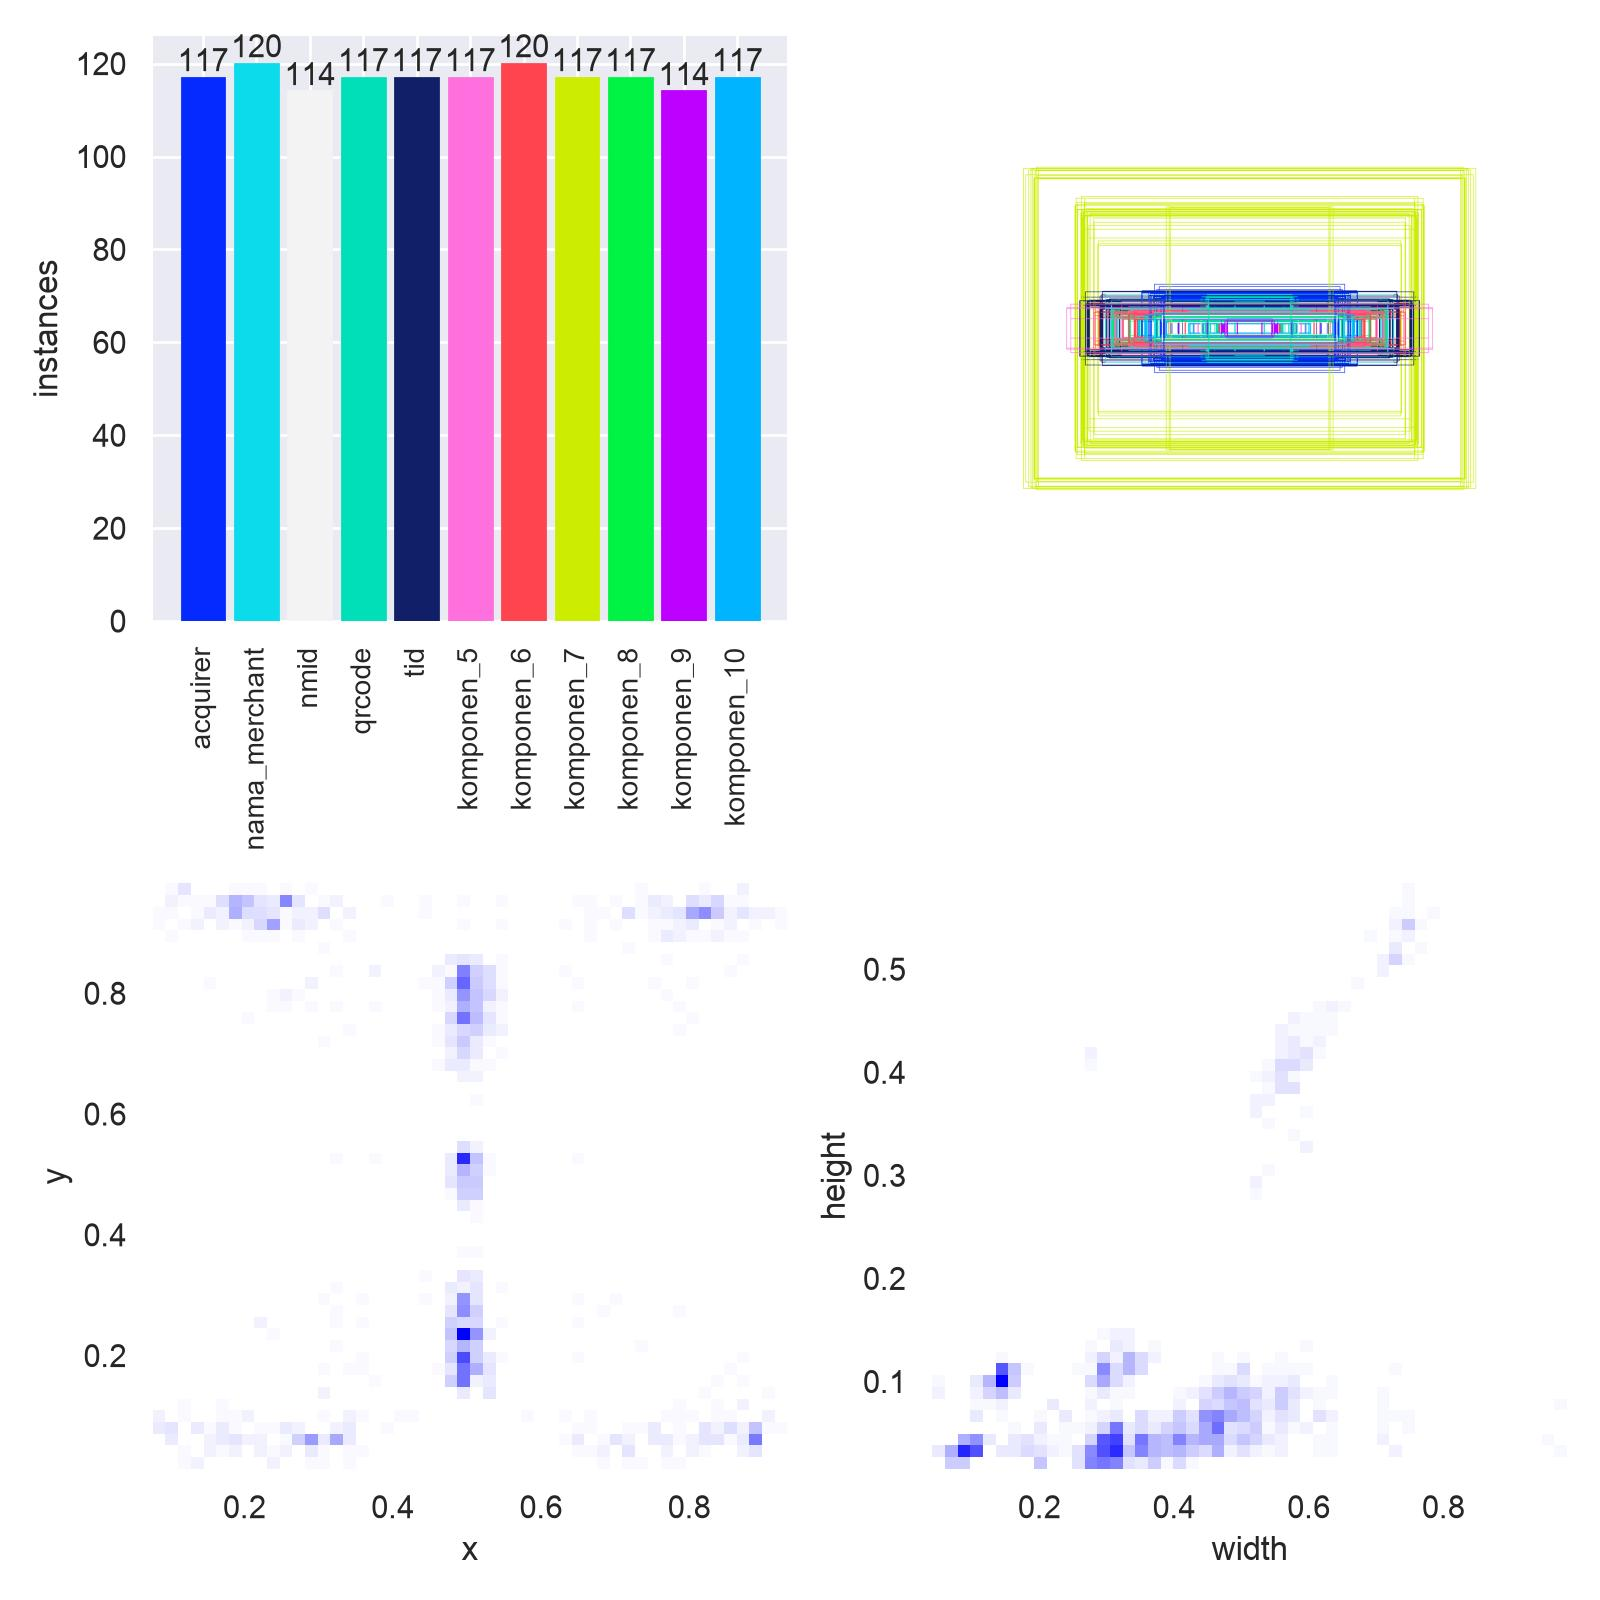
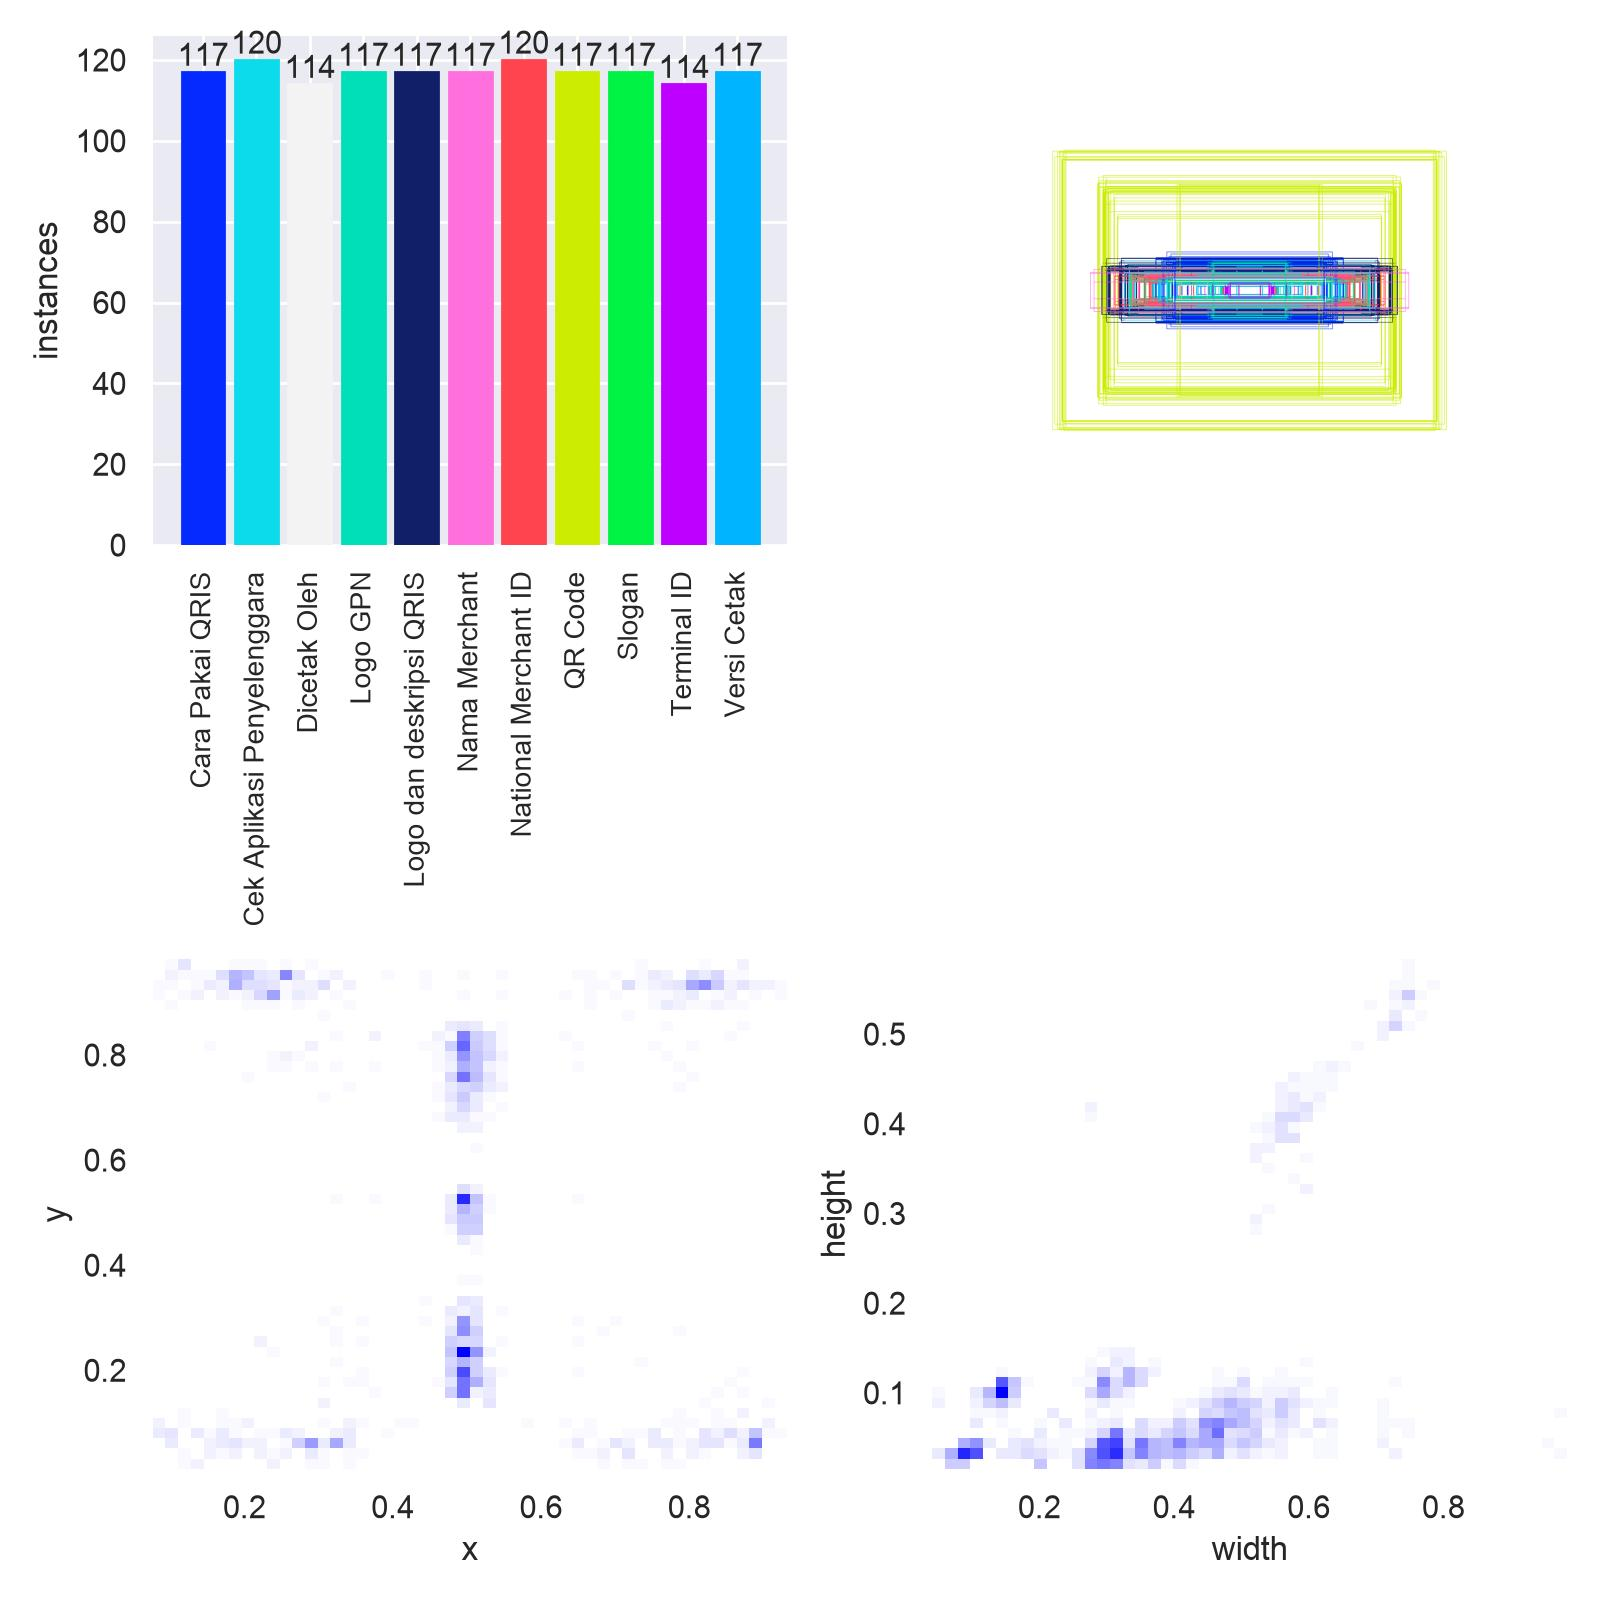
Fix 11 Roboflow class labels exact alphabetical order in dataset config and training setup

diff --git a/LaQris Physical Identity Extraction/Train OCR Model/prepare_dataset.py b/LaQris Physical Identity Extraction/Train OCR Model/prepare_dataset.py
@@ -61,17 +61,16 @@ def pisahkan_dan_siapkan_dataset():
 
     total_nc = max(5, max_class_id + 1)
     
-    # Daftar nama kelas resmi dari Roboflow
+    # Daftar nama kelas resmi dari Roboflow (Urutan Alfabetis 11 Kelas Persis)
     daftar_nama_kelas_default = [
         'Cara Pakai QRIS',
         'Cek Aplikasi Penyelenggara',
         'Dicetak Oleh',
-        'Logo dan deskripsi QRIS',
         'Logo GPN',
+        'Logo dan deskripsi QRIS',
         'Nama Merchant',
         'National Merchant ID',
         'QR Code',
-        'QrisOCR',
         'Slogan',
         'Terminal ID',
         'Versi Cetak'

diff --git a/LaQris Physical Identity Extraction/file_test_version1.py b/LaQris Physical Identity Extraction/file_test_version1.py
@@ -57,7 +57,13 @@ PEMETAAN_LABEL_ROBOFLOW = {
     "national merchant id": "nmid",
     "dicetak oleh": "acquirer",
     "terminal id": "tid",
-    "qr code": "qrcode"
+    "qr code": "qrcode",
+    # Kasus penulisan variasi Roboflow
+    "nama_merchant": "nama_merchant",
+    "national_merchant_id": "nmid",
+    "dicetak_oleh": "acquirer",
+    "terminal_id": "tid",
+    "qr_code": "qrcode"
 }
 
 # Warna visualisasi berdasar indeks label (BGR)
